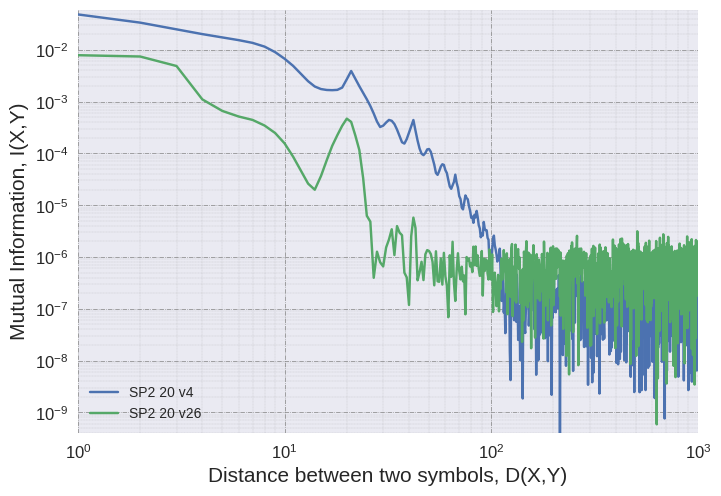
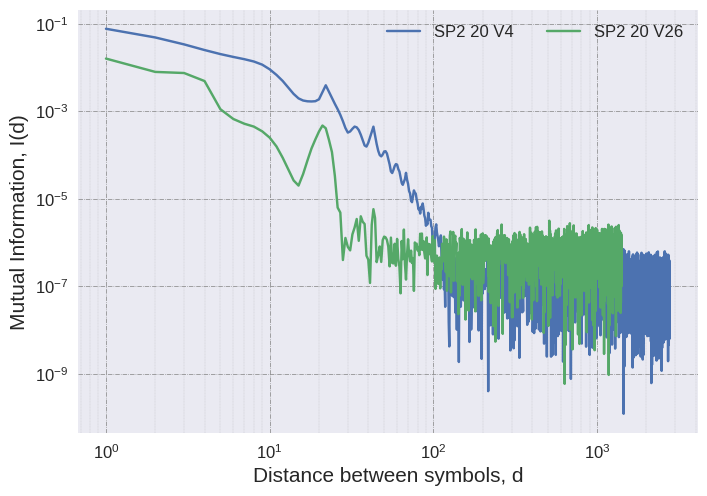
Up

diff --git a/paper_related/stuff/plot_sp.py b/paper_related/stuff/plot_sp.py
@@ -44,14 +44,14 @@ for filename in filenames:
 
 # red dashes, blue squares and green triangles
 with plt.style.context(('seaborn')):
-    # plt.loglog(np.arange(1,len(all_mi[0])+1), all_mi[0], label="SP2 20")
-    plt.loglog(np.arange(1,len(all_mi[1])+1), all_mi[1], label="SP2 100")
+    plt.loglog(np.arange(1,len(all_mi[0])+1), all_mi[0], label="SP2 20 FS={ab,bc}")
+    # plt.loglog(np.arange(1,len(all_mi[1])+1), all_mi[1], label="SP2 100")
     # plt.loglog(np.arange(1,len(all_mi[2])+1), all_mi[2], label="SP2 200")
     # plt.loglog(np.arange(1,len(all_mi[3])+1), all_mi[3], label="SP2 500")
-    plt.loglog(np.arange(1,len(all_mi[4])+1), all_mi[4], label="SP4 100")
-    plt.loglog(np.arange(1,len(all_mi[5])+1), all_mi[5], label="SP16 100")
-    #plt.loglog(np.arange(1,len(all_mi[6])+1), all_mi[6], label="SP2 20 V26")
-    #plt.loglog(np.arange(1,len(all_mi[7])+1), all_mi[7], label="SP2 20 FS={ab,bc,cd,dc}")
+    # plt.loglog(np.arange(1,len(all_mi[4])+1), all_mi[4], label="SP4 100")
+    # plt.loglog(np.arange(1,len(all_mi[5])+1), all_mi[5], label="SP16 100")
+    # plt.loglog(np.arange(1,len(all_mi[6])+1), all_mi[6], label="SP2 20 V26")
+    plt.loglog(np.arange(1,len(all_mi[7])+1), all_mi[7], label="SP2 20 FS={ab,bc,cd,dc}")
     #plt.loglog(np.arange(1,len(all_mi[8])+1), all_mi[8], label="SP2 20 Small")
 
     plt.tick_params(labelsize='large', width=5)
@@ -66,5 +66,5 @@ with plt.style.context(('seaborn')):
     ax.set_xlabel('Distance between symbols, d', fontsize=15)
     ax.set_ylabel('Mutual Information, I(d)', fontsize=15)
     lgd = ax.legend(loc='upper right', shadow=True, fancybox=True, ncol=2, numpoints=1, prop={'size': 12})
-    plt.savefig('spk_k', bbox_extra_artists=(lgd,), bbox_inches='tight')
+    plt.savefig('spk_f', bbox_extra_artists=(lgd,), bbox_inches='tight')
     plt.show()
